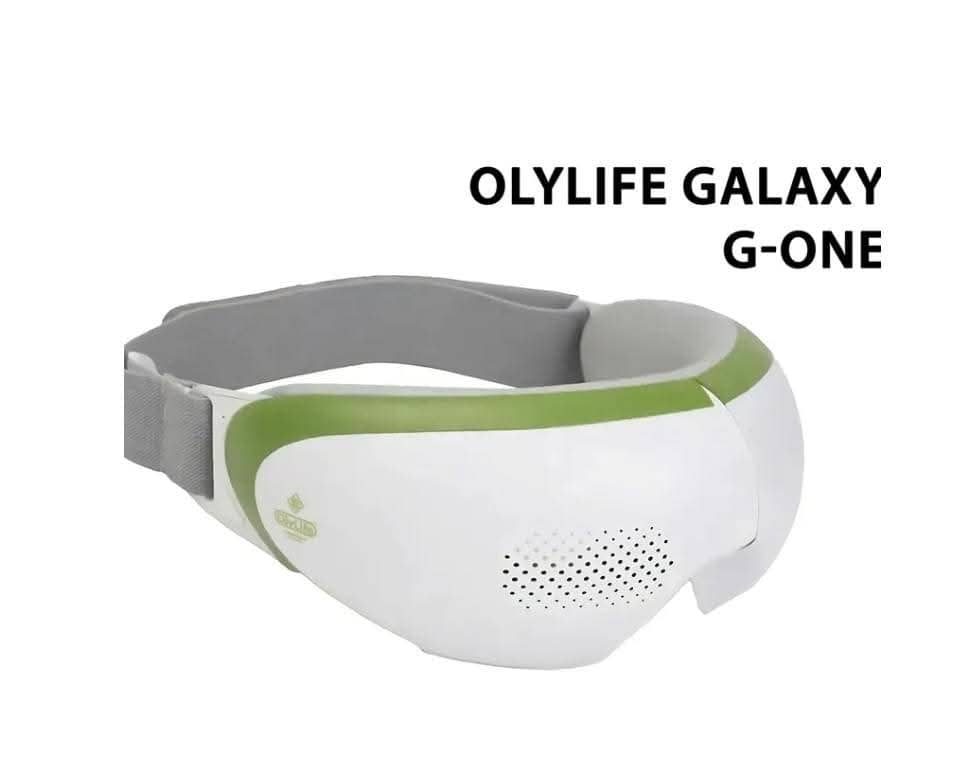
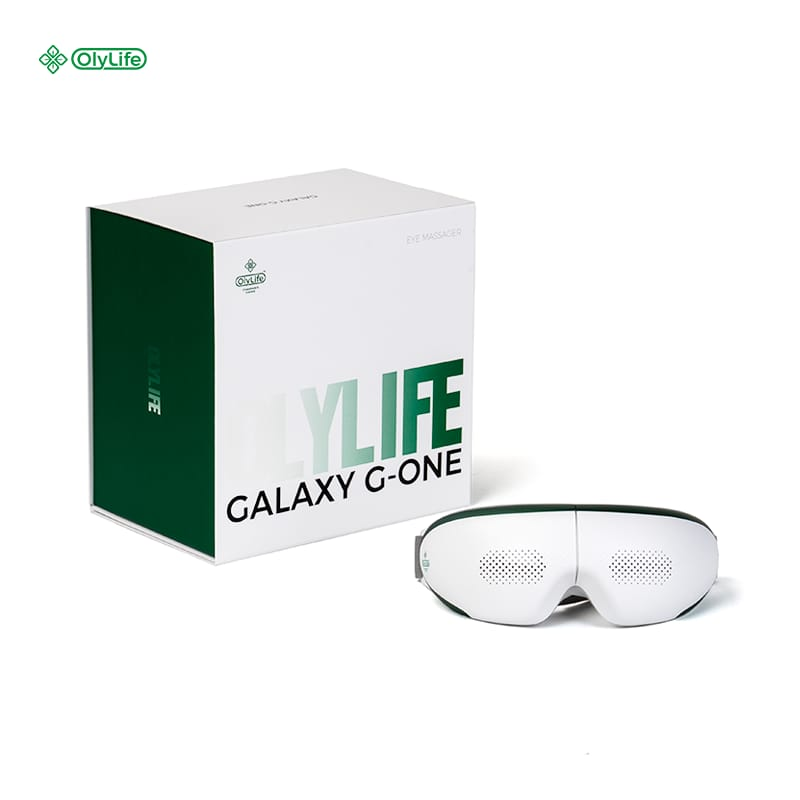
updated css, replaced g-one image

Changed region(s): [[0.0938, 0.2107, 0.9375, 0.9031], [0.75, 0.301, 0.9375, 0.3613], [0.0312, 0.0602, 0.1875, 0.0903]]

diff --git a/style.css b/style.css
@@ -534,7 +534,7 @@ a {
 }
 
 .product-img-wrap {
-  height: 200px;
+  height: 300px;
   background: linear-gradient(135deg, var(--black-soft), var(--black-card));
   display: flex;
   align-items: center;
